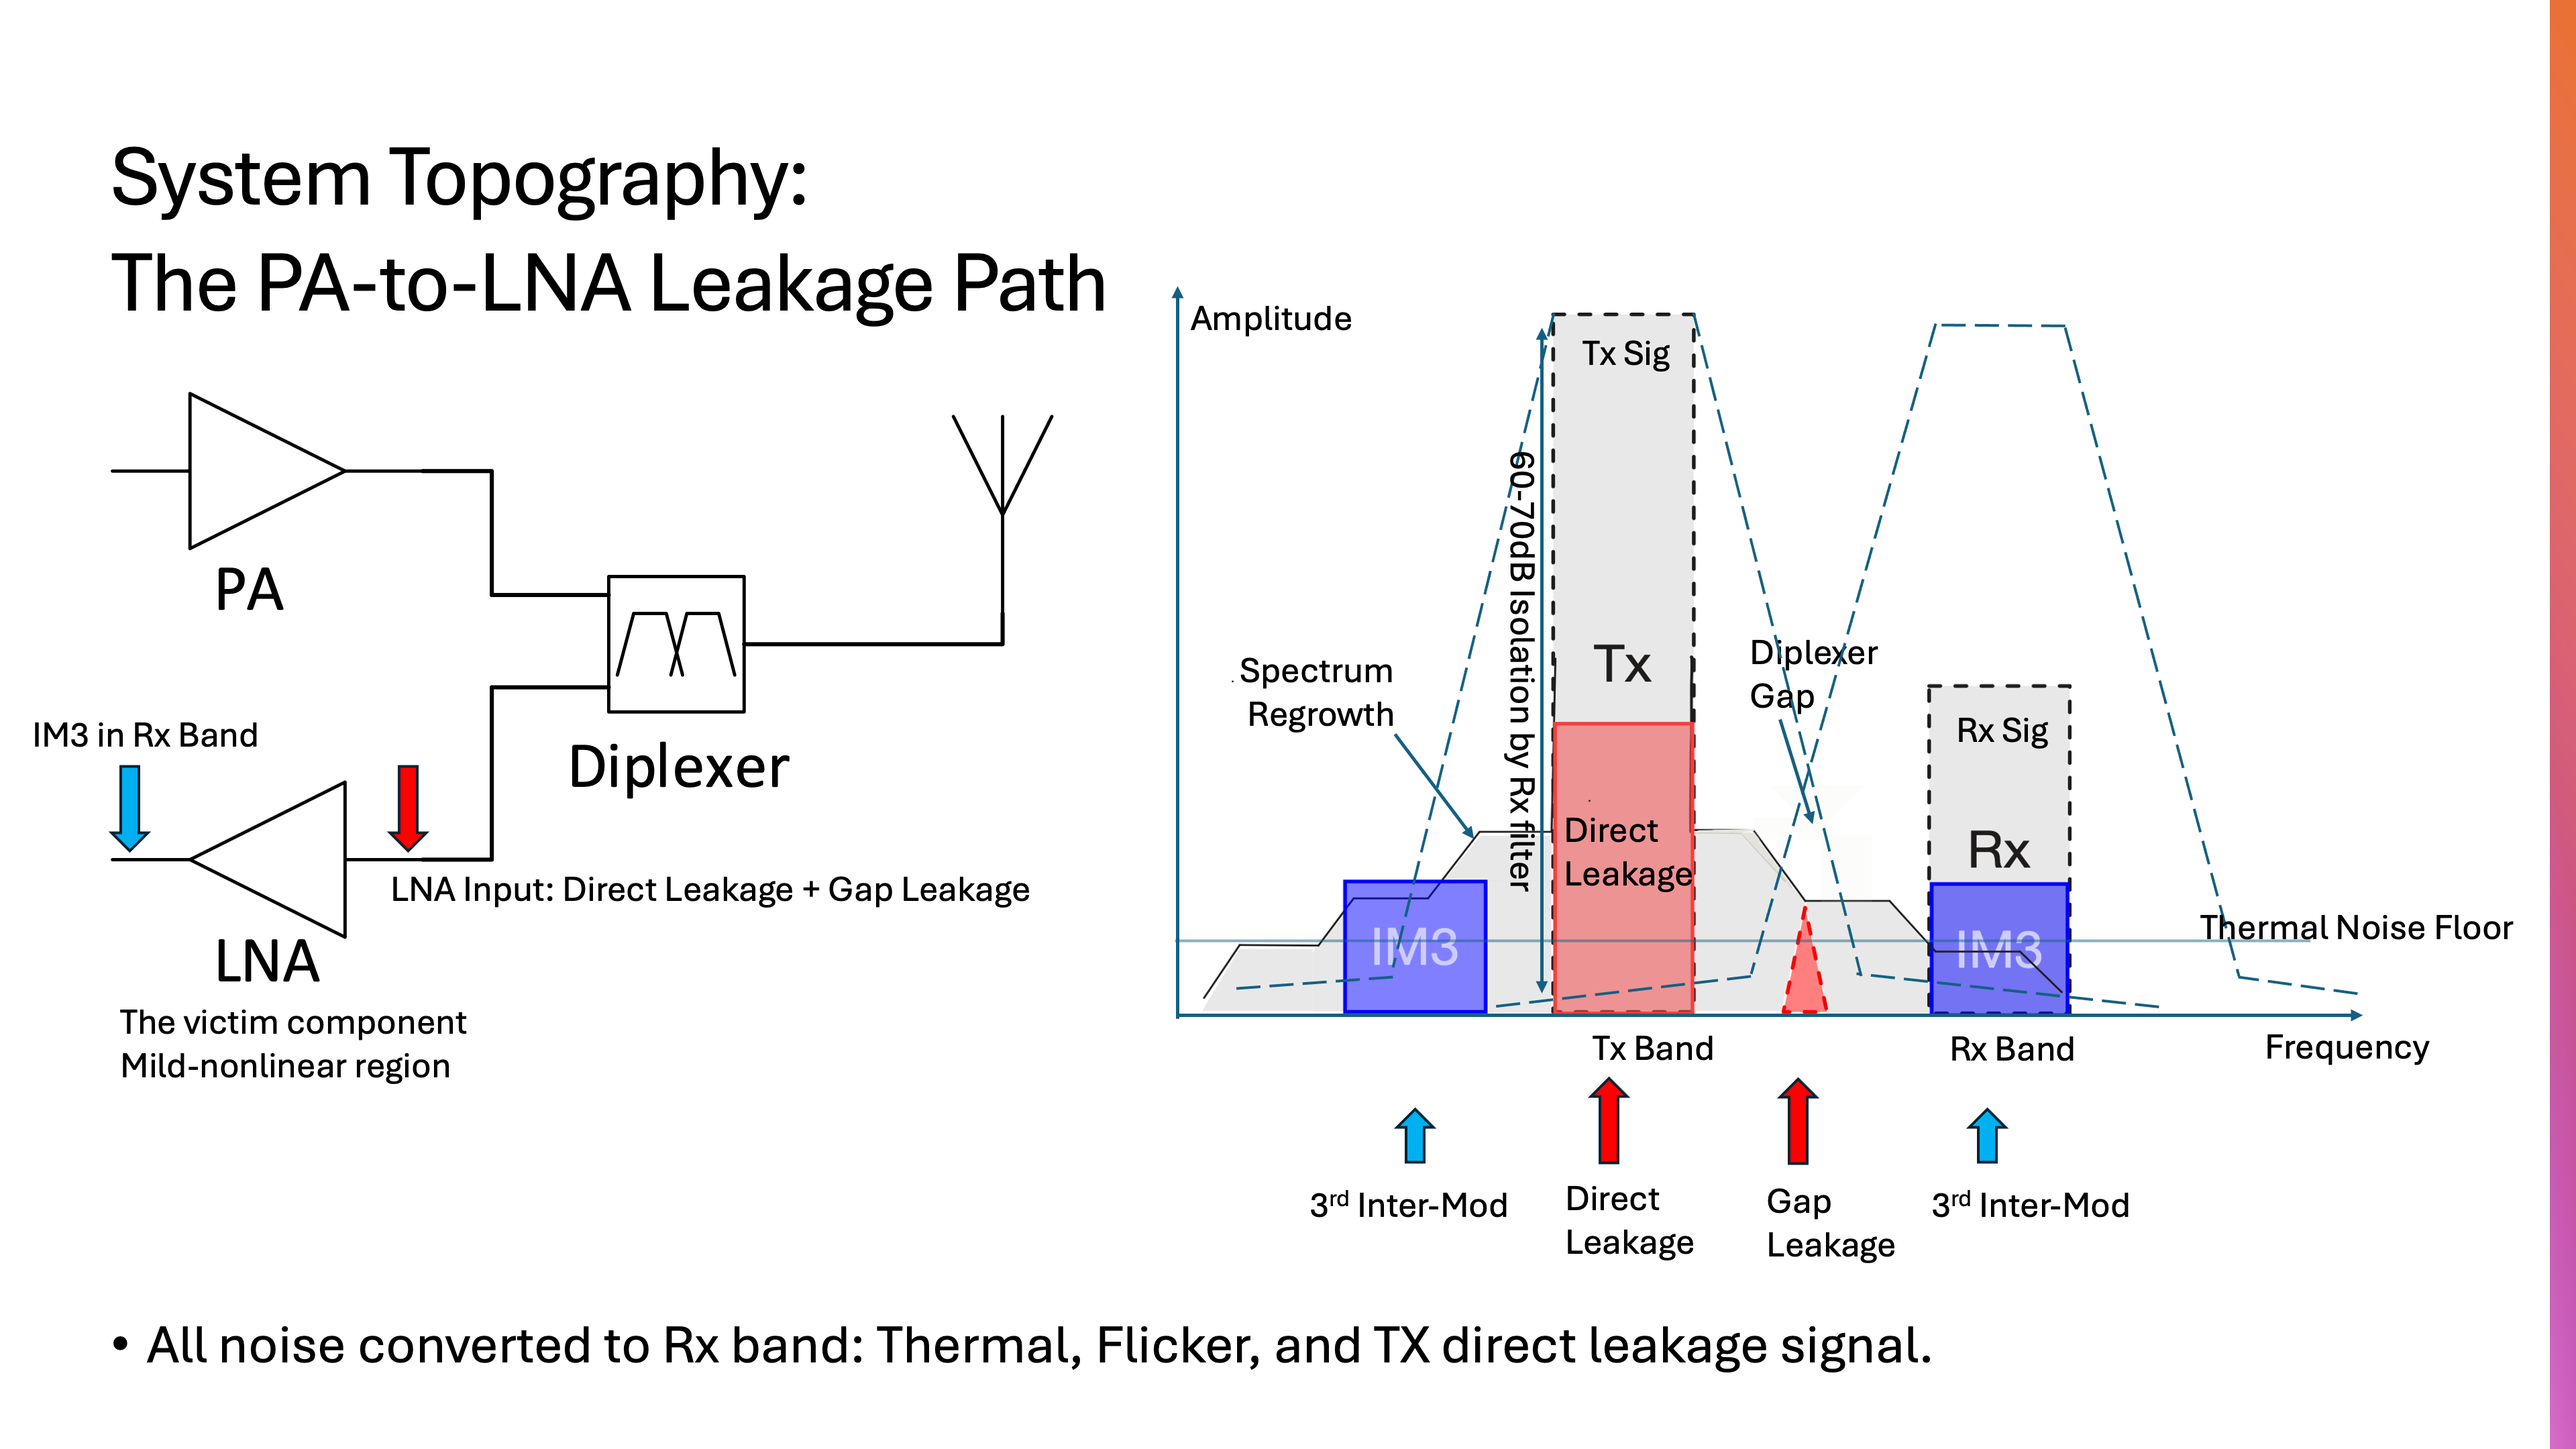
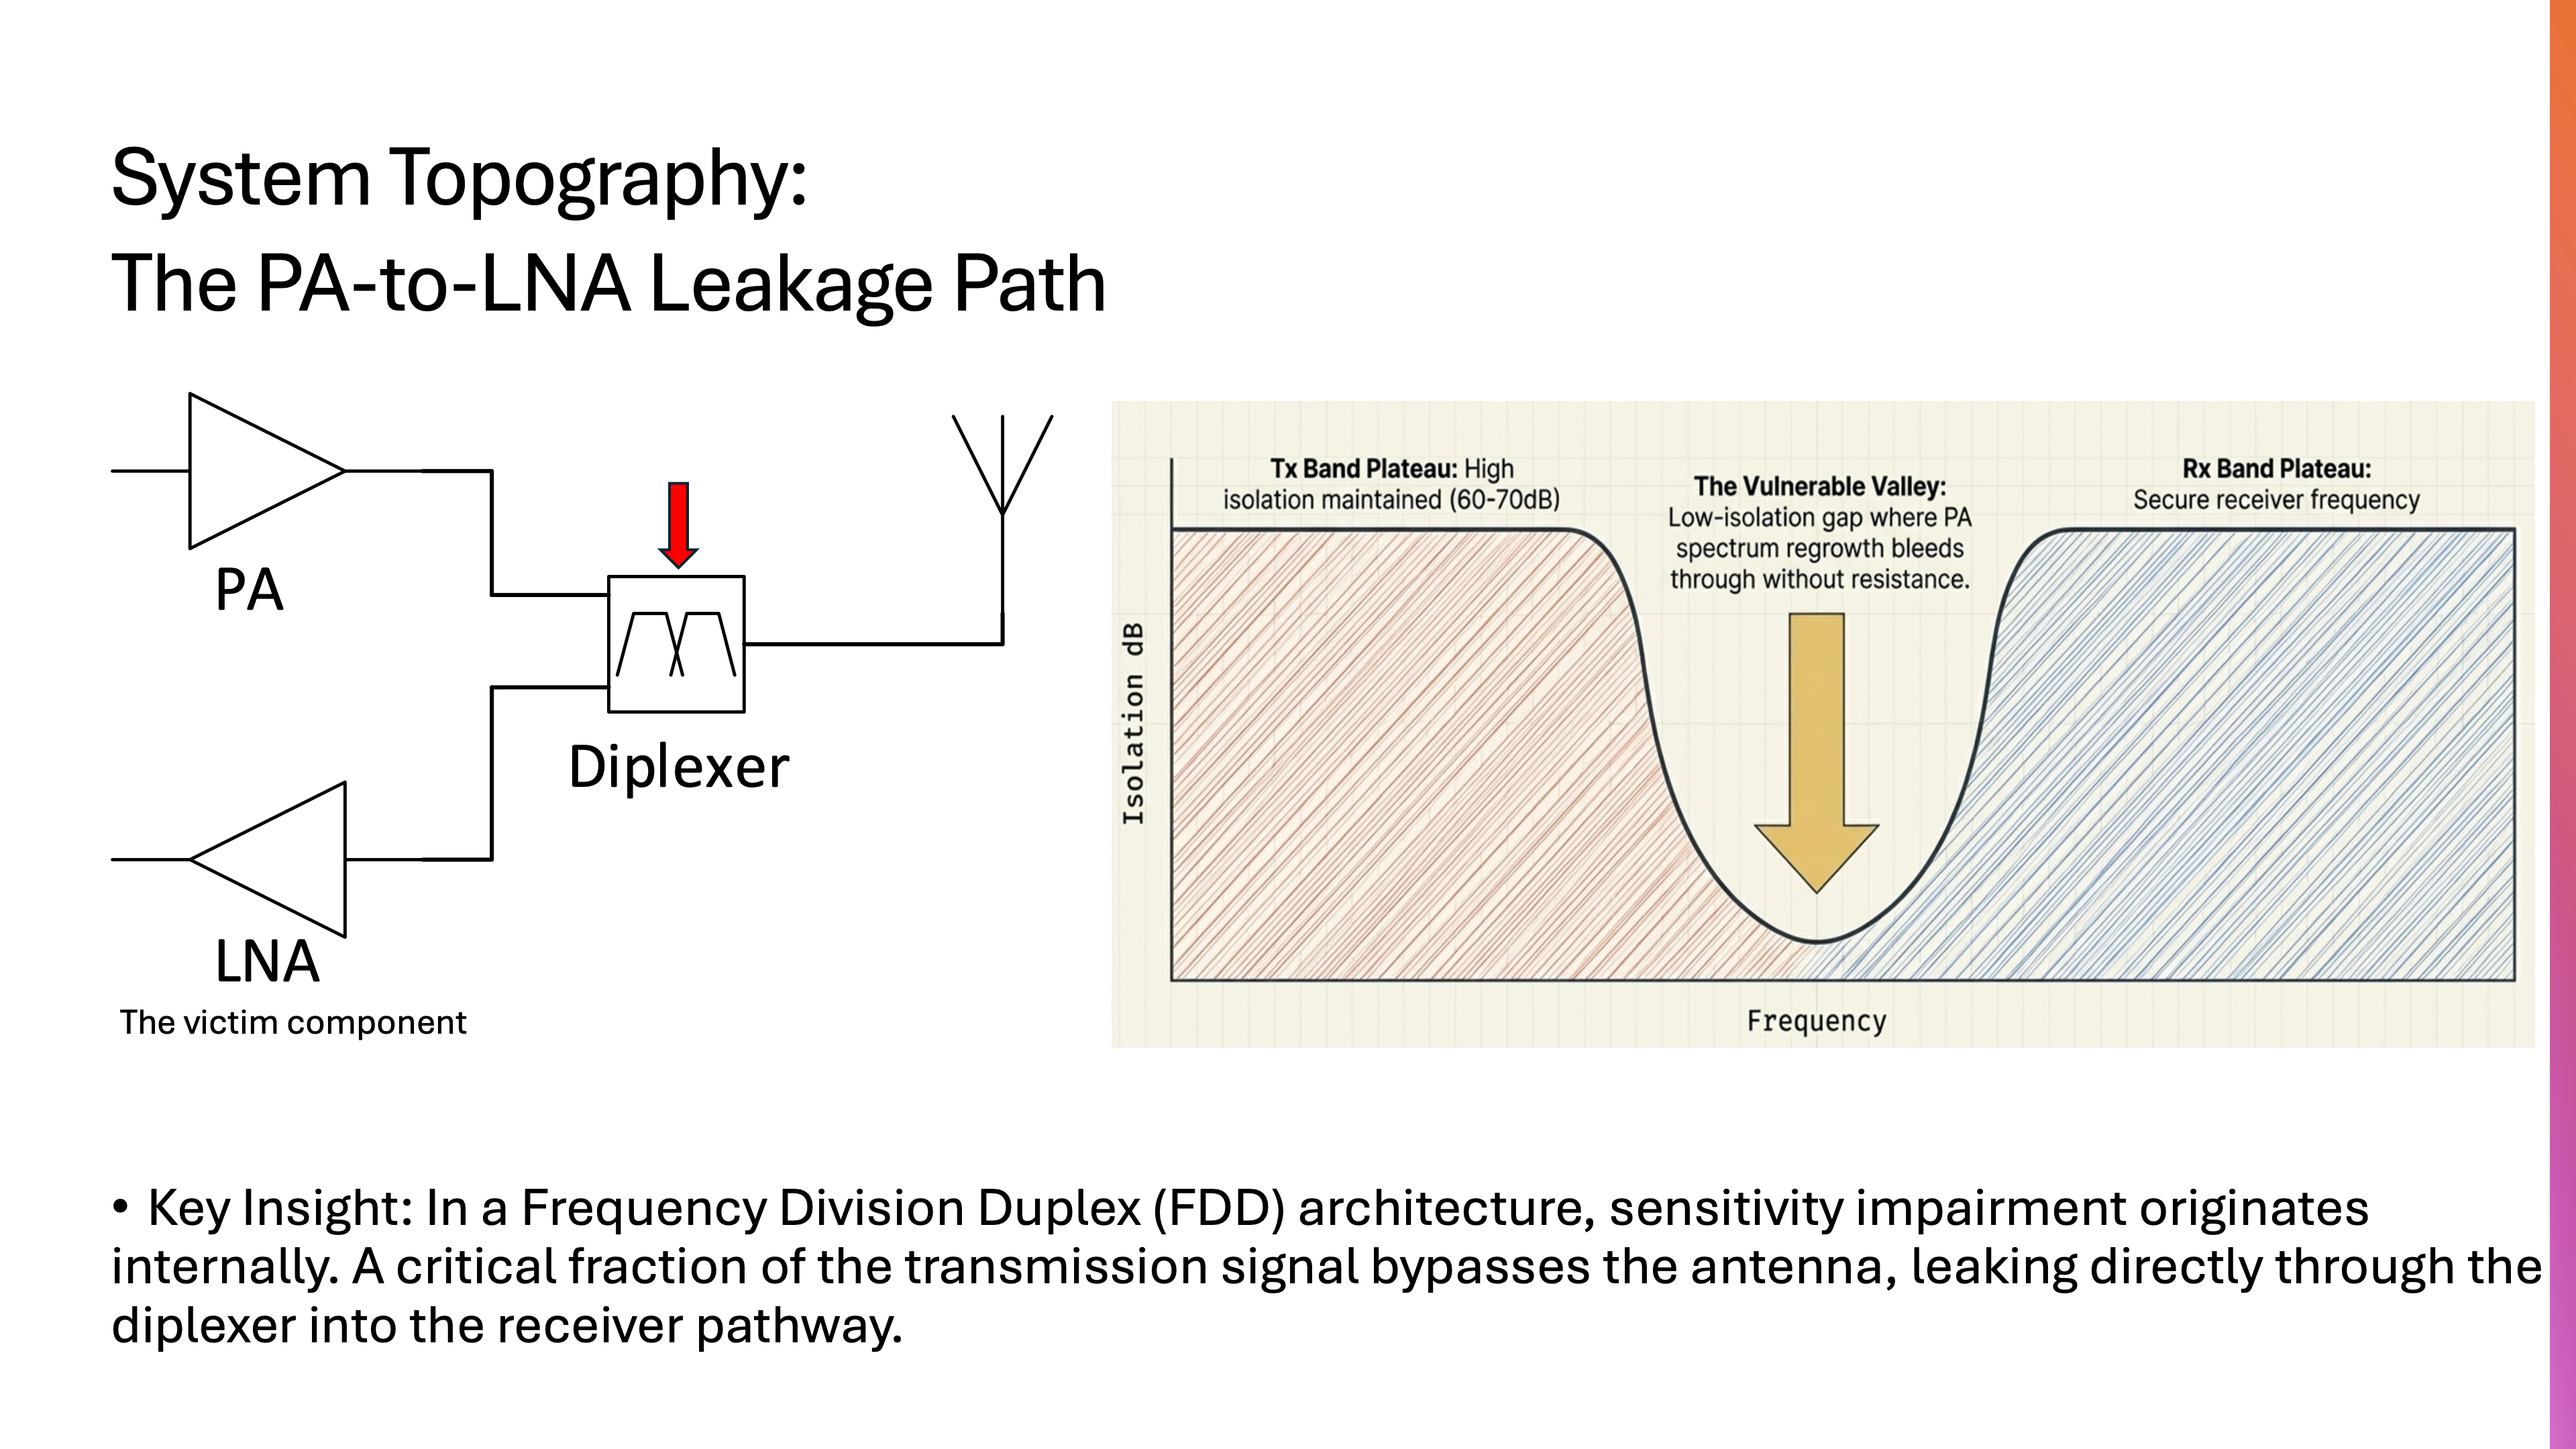
Update level-2 Qorvo intern deck with new v4 slides (add leading page)

diff --git a/index.html b/index.html
@@ -263,10 +263,10 @@
 
   <div class="nested-overlay" id="internOverlay" aria-hidden="true">
     <div class="nested-toolbar">
-      <div class="nested-title" id="internTitle">Qorvo Internship Deck · Page 1 / 4</div>
+      <div class="nested-title" id="internTitle">Qorvo Internship Deck · Page 1 / 5</div>
       <div class="jump-wrap">
-        <input type="range" id="internSlider" class="page-slider" min="1" max="4" value="1" />
-        <input type="number" id="internInput" class="page-input" min="1" max="4" value="1" />
+        <input type="range" id="internSlider" class="page-slider" min="1" max="5" value="1" />
+        <input type="number" id="internInput" class="page-input" min="1" max="5" value="1" />
       </div>
       <div class="nested-nav">
         <button class="toolbar-btn" id="prevIntern">◀ Prev</button>
@@ -343,7 +343,7 @@
     const internInput = document.getElementById('internInput');
     const internDeckShell = document.getElementById('internDeckShell');
     const internFolder = 'FDD_RF_Sensitivity_Analysis';
-    const internTotal = 4;
+    const internTotal = 5;
     let internPage = 1;
 
     function nestedOpen(){ return nestedOverlay.classList.contains('open'); }
